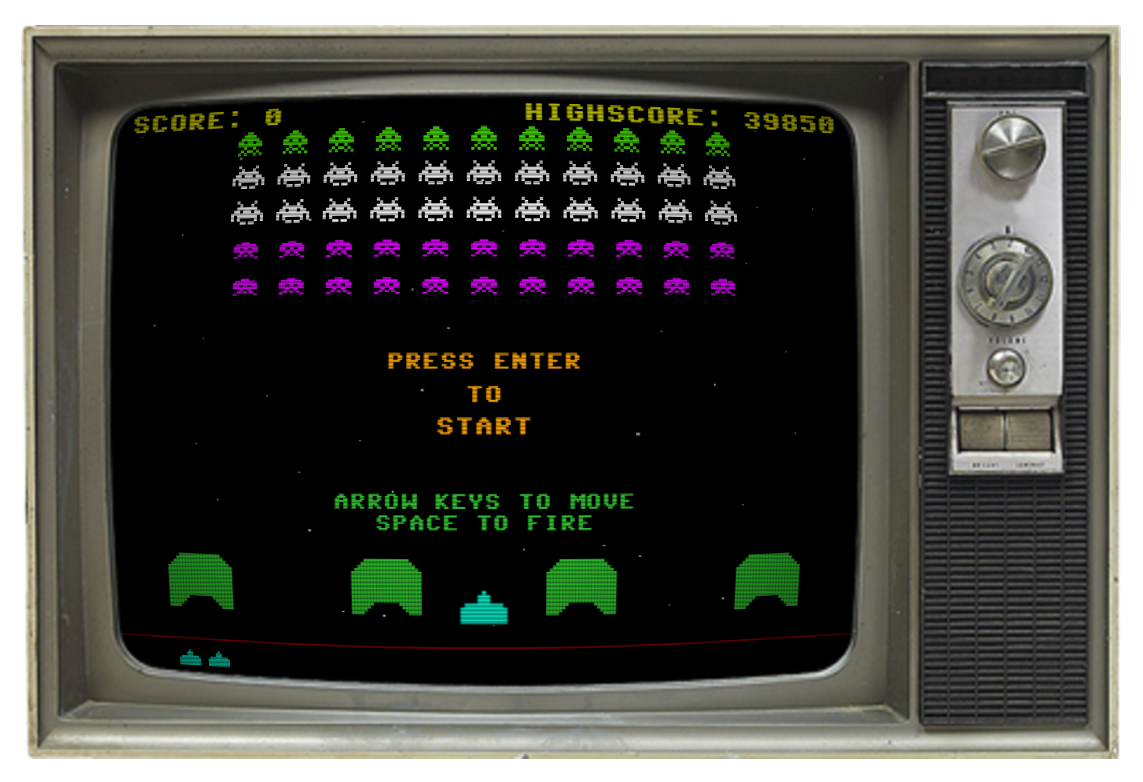
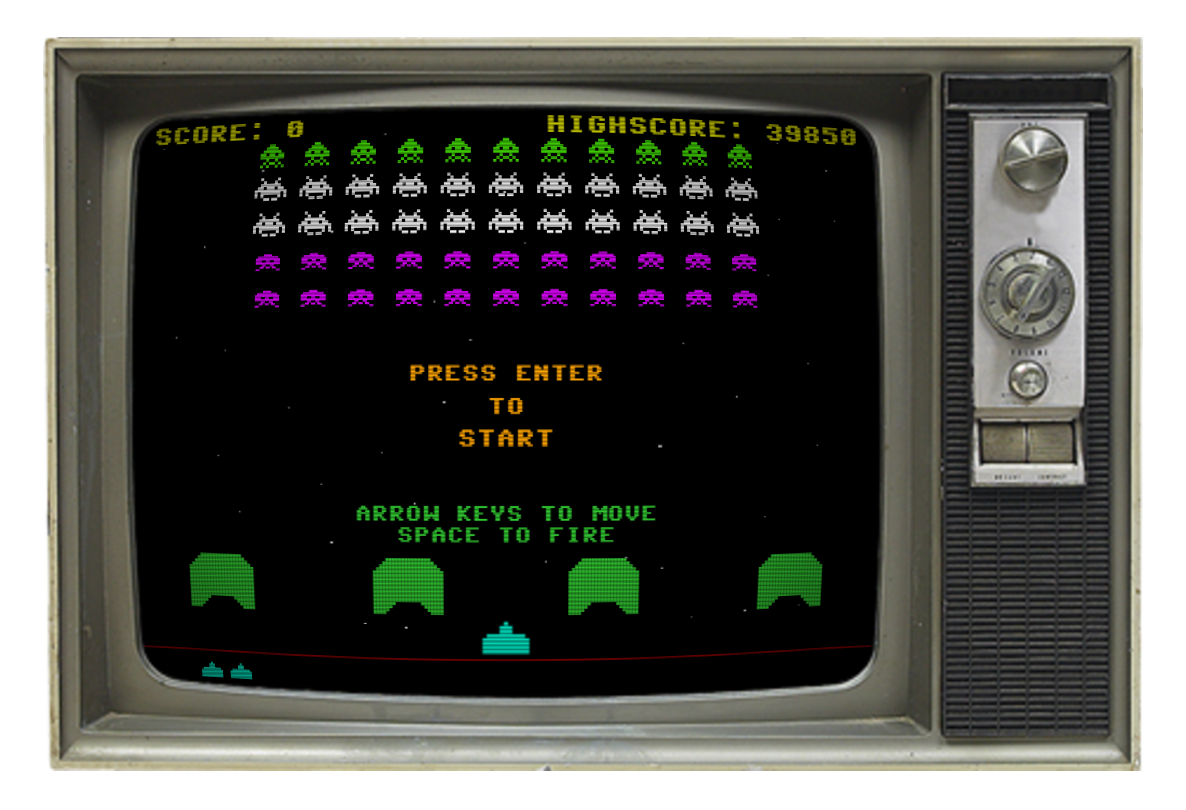
Changed input

diff --git a/assets/js/game.js b/assets/js/game.js
@@ -12,6 +12,8 @@ import ObstacleController from './ObstacleController.js';
 const container = document.getElementById('ITV').getBoundingClientRect();
 const canvas = document.getElementById('game');
 const ctx = canvas.getContext('2d');
+// canvas.width = 800;
+// canvas.height = 600;
 canvas.width = container.width;
 canvas.height = container.height;
 const bg = new Image();
@@ -23,9 +25,9 @@ let gamePaused = true;
 
 //---INSTANTIATIONS---//
 const score = new ScoreController(canvas);
-const playerBC = new BulletController(canvas, 5, 'red', false, '../assets/sfx/shoot.wav');
+const playerBC = new BulletController(canvas, 5, 'red', true, '../assets/sfx/shoot.wav');
 const player = new Player(canvas, playerBC);
-const enemyBC = new BulletController(canvas, 3, 'white', false, '../assets/sfx/enemy-shoot.wav', 1);
+const enemyBC = new BulletController(canvas, 3, 'white', true, '../assets/sfx/enemy-shoot.wav', 1);
 const enemyController = new EnemyController(canvas, enemyBC, playerBC, score);
 const obstacleController = new ObstacleController(canvas, 'limegreen', playerBC, enemyBC);
 
@@ -76,9 +78,9 @@ function game() {
 	enemyController.gamePaused = gamePaused;
 	draw(ctx);
 	if (player.lives === 0) {
-		printText('GAME OVER', 80, 300, 'red');
-		printText('PRESS R', 40, 370, 'red');
-		printText('TO RESTART', 40, 410, 'red');
+		printText('GAME OVER', 80, 240, 'red');
+		printText('PRESS R', 40, 320, 'orange');
+		printText('TO RESTART', 40, 355, 'orange');
 		gamePaused = true;
 		return;
 	} else if (gamePaused) {
@@ -87,8 +89,10 @@ function game() {
 		printText('START', 30, 320, 'orange');
 		printText('ARROW KEYS TO MOVE', 20, 390, 'limegreen');
 		printText('SPACE TO FIRE', 20, 410, 'limegreen');
+	} else {
+
+		update();
 	}
-	update();
 }
 
 

diff --git a/assets/js/Player.js b/assets/js/Player.js
@@ -26,7 +26,7 @@ export default class Player {
 		this.height = this.image.height;
 		this.defaultX = this.canvas.width / 2 - (this.width * this.scale) / 2;
 		this.x = this.defaultX;
-		this.y = this.canvas.height - this.height * this.scale - 55;
+		this.y = this.canvas.height - this.height * this.scale - 37;
 	}
 
 	newGame() {

diff --git a/assets/js/ObstacleController.js b/assets/js/ObstacleController.js
@@ -4,7 +4,7 @@ import Obstacle from './Obstacle.js';
 
 export default class ObstacleController {
 	obstacles = [];
-	obstacleYoffset = 445;
+	obstacleYoffset = 433;
 	obstacleBlockSize = 3;
 	obstacleWidth = 22;
 	obstacleHeight = 18;
